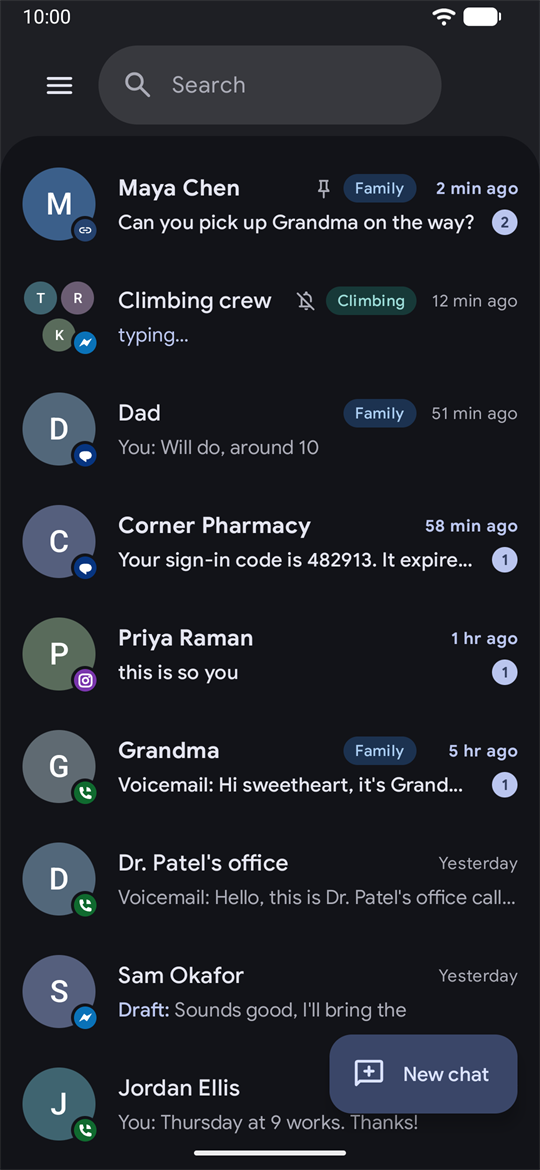
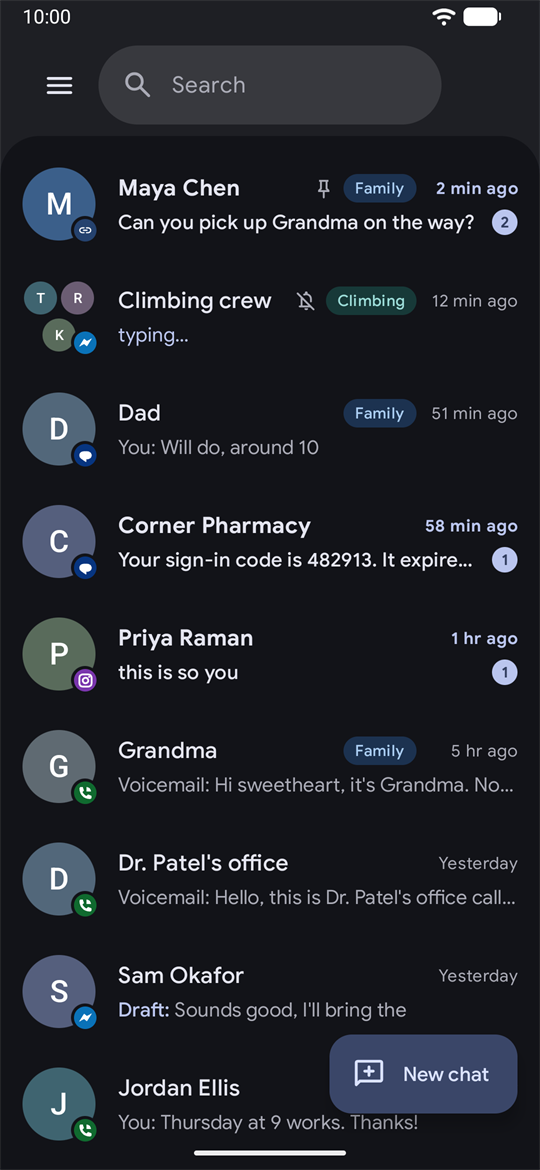
Android guide: six new pictures, the voicemail playing, reactions and search

Changed region(s): [[0.2074, 0.6154, 0.9778, 0.7077]]

diff --git a/android/index.html b/android/index.html
@@ -44,10 +44,11 @@
   <h2>A look around</h2>
   <div class="gallery tall">
     <figure><a href="inbox.png"><img src="inbox.png" width="540" height="1170" loading="lazy" alt="The conversation list, with conversations from all four services."></a><figcaption>Every service in one list.</figcaption></figure>
-    <figure><a href="merged.png"><img src="merged.png" width="540" height="1170" loading="lazy" alt="Maya Chen's Instagram and Google Messages conversations shown together."></a><figcaption>One person's conversations from several services, shown as one.</figcaption></figure>
-    <figure><a href="voicemail.png"><img src="voicemail.png" width="540" height="1170" loading="lazy" alt="Grandma's Google Voice conversation with a voicemail, its player and its transcript."></a><figcaption>Google Voice voicemail, with its transcript.</figcaption></figure>
+    <figure><a href="merged-light.png"><img src="merged-light.png" width="540" height="1170" loading="lazy" alt="Maya Chen's Instagram and Google Messages conversations shown together, in light mode."></a><figcaption>One person's conversations from several services, shown as one. Light or dark.</figcaption></figure>
+    <figure><a href="voicemail.png"><img src="voicemail.png" width="540" height="1170" loading="lazy" alt="Grandma's Google Voice voicemail playing, its transcript lit up to the words heard so far."></a><figcaption>Voicemail plays with its transcript, which follows along.</figcaption></figure>
+    <figure><a href="actions.png"><img src="actions.png" width="540" height="1170" loading="lazy" alt="A message held down: reactions above it, and Reply, Copy, Forward, Star, Select more and Info below."></a><figcaption>Press and hold a message to react, reply, forward or star it.</figcaption></figure>
+    <figure><a href="search.png"><img src="search.png" width="540" height="1170" loading="lazy" alt="Search results for Grandma: her conversation and three messages that mention her."></a><figcaption>Search names, numbers and messages, including history kept on your server.</figcaption></figure>
     <figure><a href="menu.png"><img src="menu.png" width="540" height="1170" loading="lazy" alt="The menu: Messages, Unread, Voicemail, each service, Remind me later, Scheduled, Drafts and Saved Messages."></a><figcaption>Views, each service, reminders, scheduled messages and drafts.</figcaption></figure>
-    <figure><a href="welcome.png"><img src="welcome.png" width="540" height="1170" loading="lazy" alt="The welcome screen: I have a server, Set one up, and Look around with sample conversations."></a><figcaption>Join your server, or look around with sample conversations first.</figcaption></figure>
   </div>
   <p class="quiet">Pictures use made-up people.</p>
 
